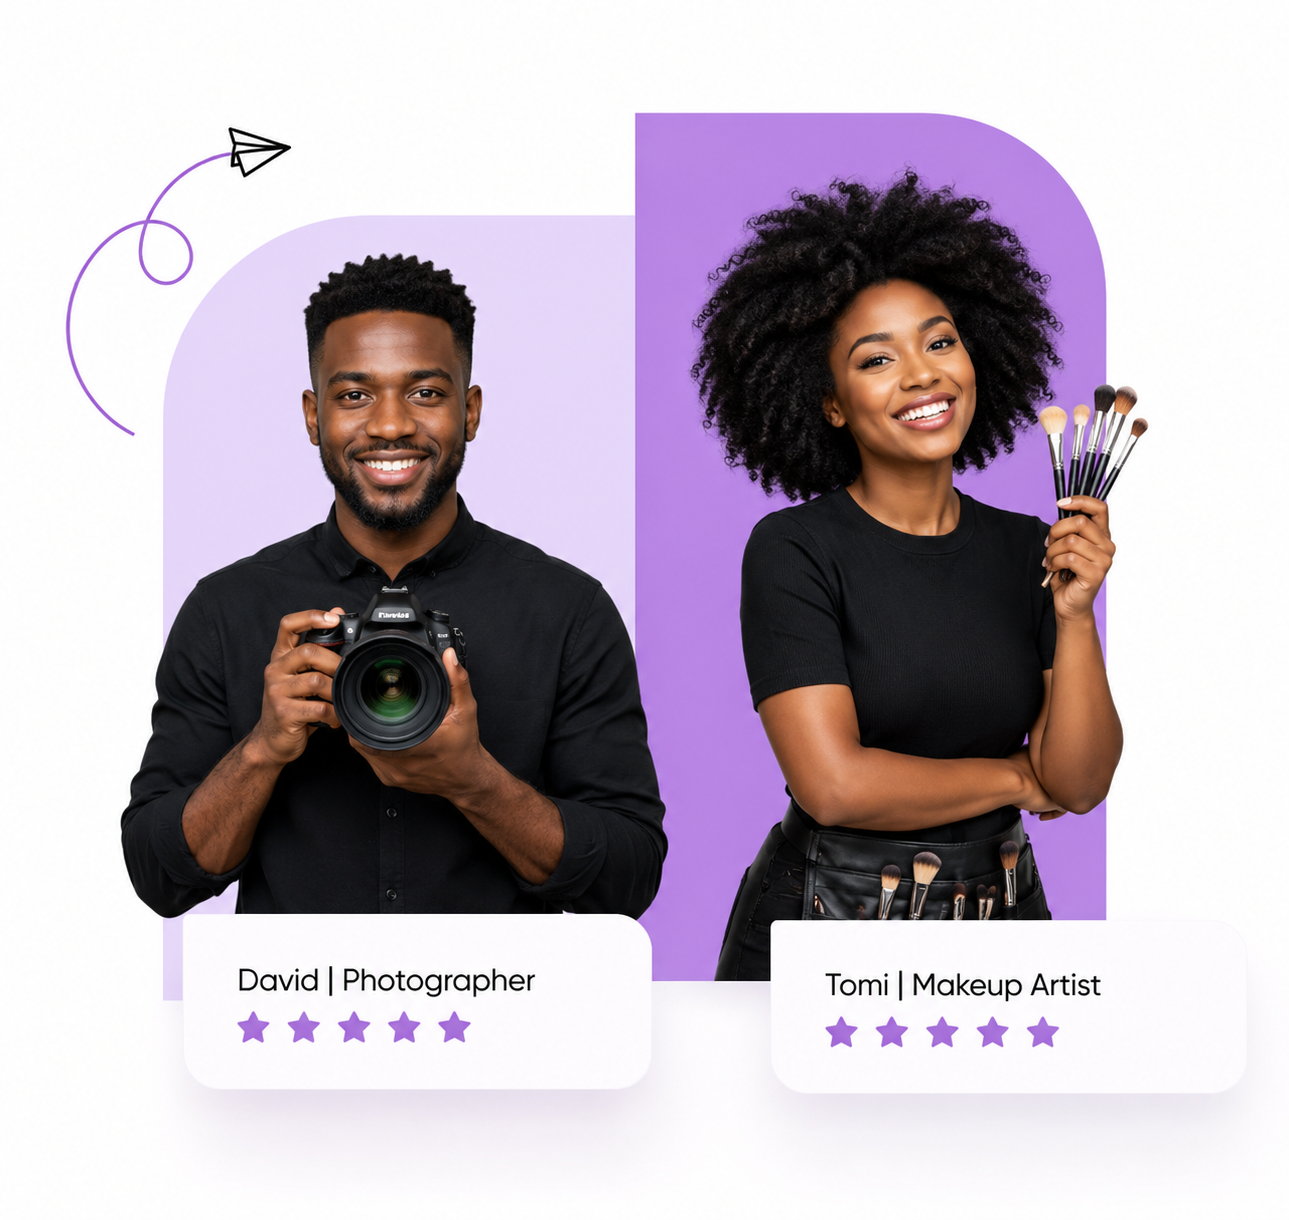
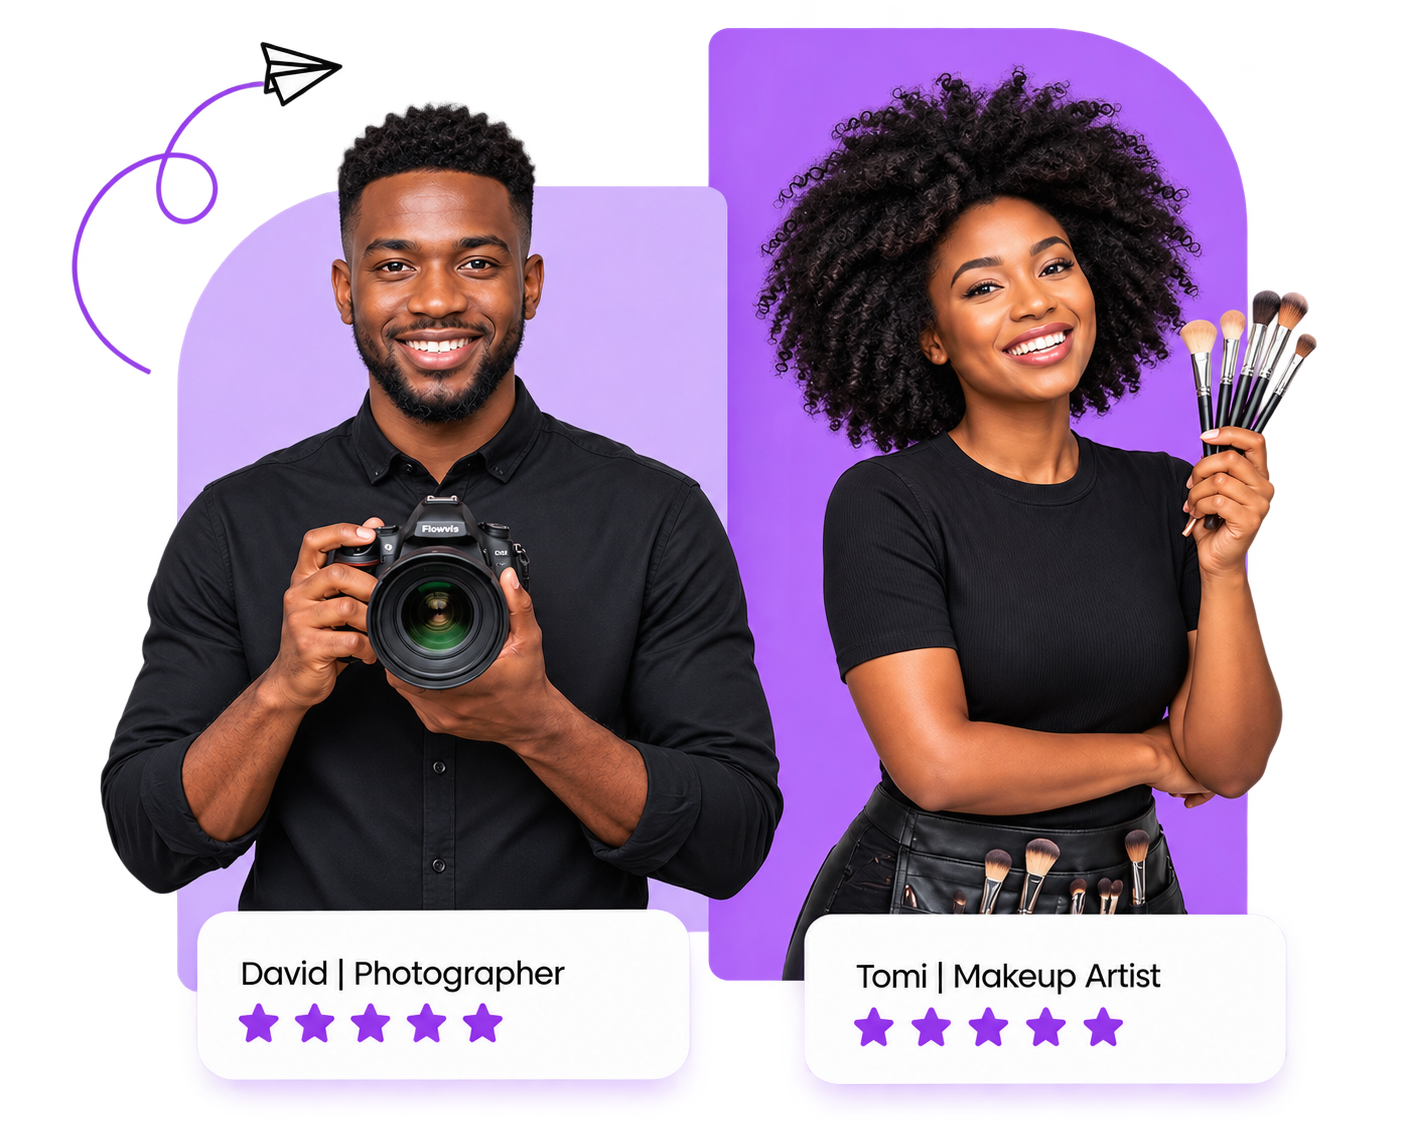
updae

diff --git a/frontend/features/landing/LandingHero.tsx b/frontend/features/landing/LandingHero.tsx
@@ -1,6 +1,5 @@
 "use client";
 
-import Image from "next/image";
 import Link from "next/link";
 import { getButtonClassName } from "@/components/ui/buttonStyles";
 import { HeroMarketplaceSearch } from "@/features/marketplace/HeroMarketplaceSearch";
@@ -13,20 +12,20 @@ import { HeroRotatingWord } from "@/features/landing/HeroRotatingWord";
 import { LANDING_HERO_CONTAINER_CLASS } from "@/features/landing/landingSectionStyles";
 import { MixpanelEvents, track } from "@/lib/mixpanelEvents";
 
-const HERO_IMAGE_SRC = "/images/landing-images/hero.png";
+const HERO_IMAGE_SRC = "/images/landing-images/hero.png?v=2";
 
 export function LandingHero() {
   return (
-    <section className="relative z-30 isolate flex min-h-0 flex-col bg-[#f7f8fc] pt-20 sm:pt-24 lg:min-h-dvh lg:pt-28">
+    <section className="relative z-30 isolate flex min-h-dvh flex-col bg-[#f7f8fc] pt-20 sm:pt-24 lg:pt-28">
       <div className="pointer-events-none absolute inset-0 overflow-hidden" aria-hidden>
         <div className="absolute -left-24 top-10 h-72 w-72 rounded-full bg-primary/10 blur-3xl" />
         <div className="absolute right-0 top-32 h-64 w-64 rounded-full bg-accent-gold/15 blur-3xl" />
       </div>
 
       <div
-        className={`relative flex flex-1 flex-col justify-start py-6 sm:py-8 lg:justify-center lg:py-10 ${LANDING_HERO_CONTAINER_CLASS}`}
+        className={`relative flex min-h-0 flex-1 flex-col justify-between py-6 sm:py-8 lg:justify-center lg:py-10 ${LANDING_HERO_CONTAINER_CLASS}`}
       >
-        <div className="grid items-center gap-5 sm:gap-8 lg:grid-cols-[minmax(0,1fr)_minmax(0,1.05fr)] lg:gap-10 xl:gap-14 2xl:gap-16">
+        <div className="grid min-h-0 flex-1 grid-cols-1 items-center gap-4 sm:gap-6 lg:flex-none lg:grid-cols-[minmax(0,1fr)_minmax(0,1.05fr)] lg:gap-10 xl:gap-14 2xl:gap-16">
           <div className="min-w-0 text-left motion-safe:animate-[hero-copy-in_0.65s_ease-out_both]">
             <h1 className="font-heading text-[1.65rem] font-semibold leading-[1.2] tracking-tight text-neutral-900 sm:text-4xl lg:text-[2.85rem] xl:text-5xl">
               {HERO_HEADLINE.lead}{" "}
@@ -62,21 +61,21 @@ export function LandingHero() {
             </div>
           </div>
 
-          <div className="relative mx-auto hidden w-full max-w-[16rem] motion-safe:animate-[hero-copy-in_0.75s_ease-out_0.08s_both] sm:max-w-sm lg:mx-0 lg:block lg:max-w-none lg:justify-self-end lg:pl-2 xl:pl-4">
-            <div className="relative overflow-hidden rounded-[1.75rem] border border-primary-border/70 bg-white/60 p-1.5 shadow-primary-soft sm:rounded-[2.5rem] sm:p-2.5">
-              <Image
-                src={HERO_IMAGE_SRC}
-                alt="Featured Eventtz vendors - photographer and makeup artist"
-                width={900}
-                height={900}
-                priority
-                className="h-auto max-h-[min(30dvh,13rem)] w-full rounded-[1.35rem] object-contain sm:max-h-[min(42dvh,22rem)] sm:rounded-[2rem] lg:max-h-[min(50dvh,28rem)] xl:max-h-[min(54dvh,32rem)]"
-              />
-            </div>
+          <div className="relative mx-auto flex w-full max-w-full flex-1 items-center justify-center motion-safe:animate-[hero-copy-in_0.75s_ease-out_0.08s_both] lg:mx-0 lg:flex-none lg:max-w-none lg:justify-self-end lg:pl-2 xl:pl-4">
+            {/* Plain img — no frame; asset must be exported with transparent background */}
+            <img
+              src={HERO_IMAGE_SRC}
+              alt="Featured Eventtz vendors - photographer and makeup artist"
+              width={900}
+              height={720}
+              decoding="async"
+              fetchPriority="high"
+              className="block h-auto max-h-[min(44dvh,22rem)] w-full bg-transparent object-contain sm:max-h-[min(48dvh,26rem)] lg:max-h-[min(50dvh,28rem)] xl:max-h-[min(54dvh,32rem)]"
+            />
           </div>
         </div>
 
-        <div className="relative z-20 mx-auto mt-11 w-full min-w-0 max-w-3xl overflow-visible motion-safe:animate-[hero-copy-in_0.75s_ease-out_0.12s_both] sm:mt-10 lg:mt-12 xl:max-w-4xl">
+        <div className="relative z-20 mx-auto w-full min-w-0 max-w-3xl shrink-0 overflow-visible motion-safe:animate-[hero-copy-in_0.75s_ease-out_0.12s_both] pt-4 lg:mt-12 lg:pt-0 xl:max-w-4xl">
           <p className="mb-2 flex flex-wrap items-center gap-2 text-sm text-neutral-600">
             <span className="inline-flex items-center rounded-md bg-primary/10 px-2 py-0.5 text-xs font-semibold tracking-wide text-primary">
               AI-powered
